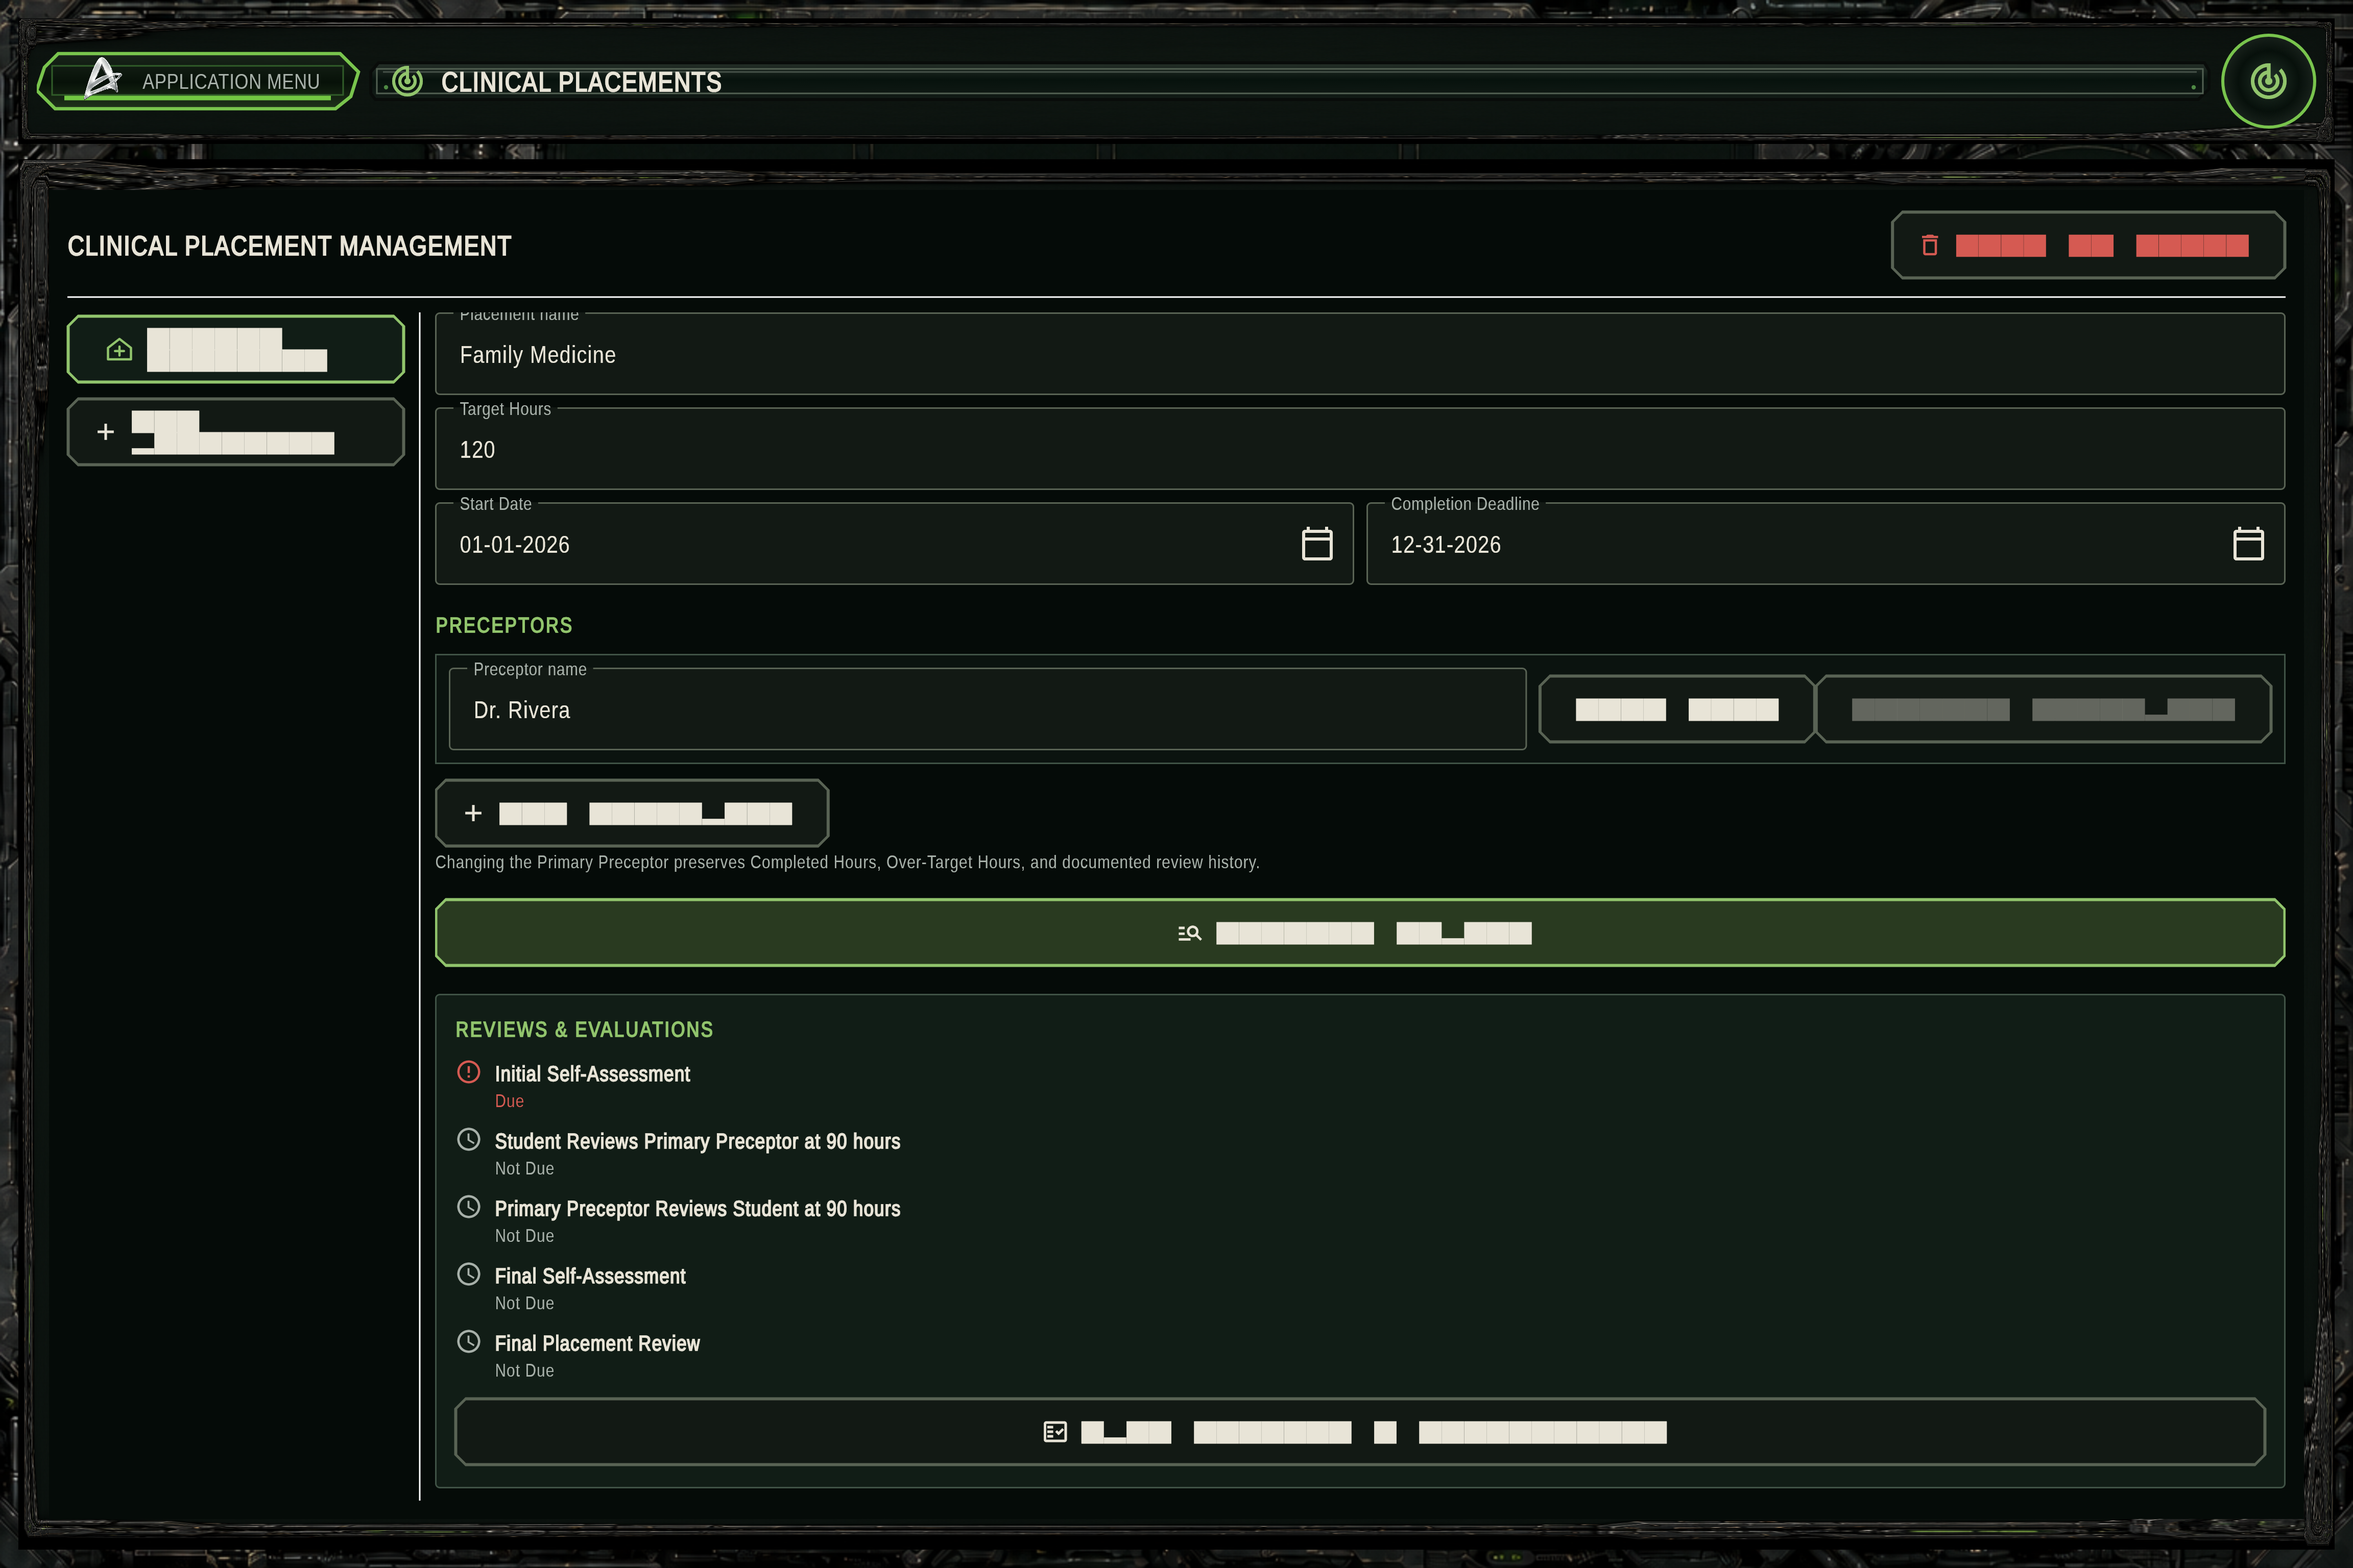
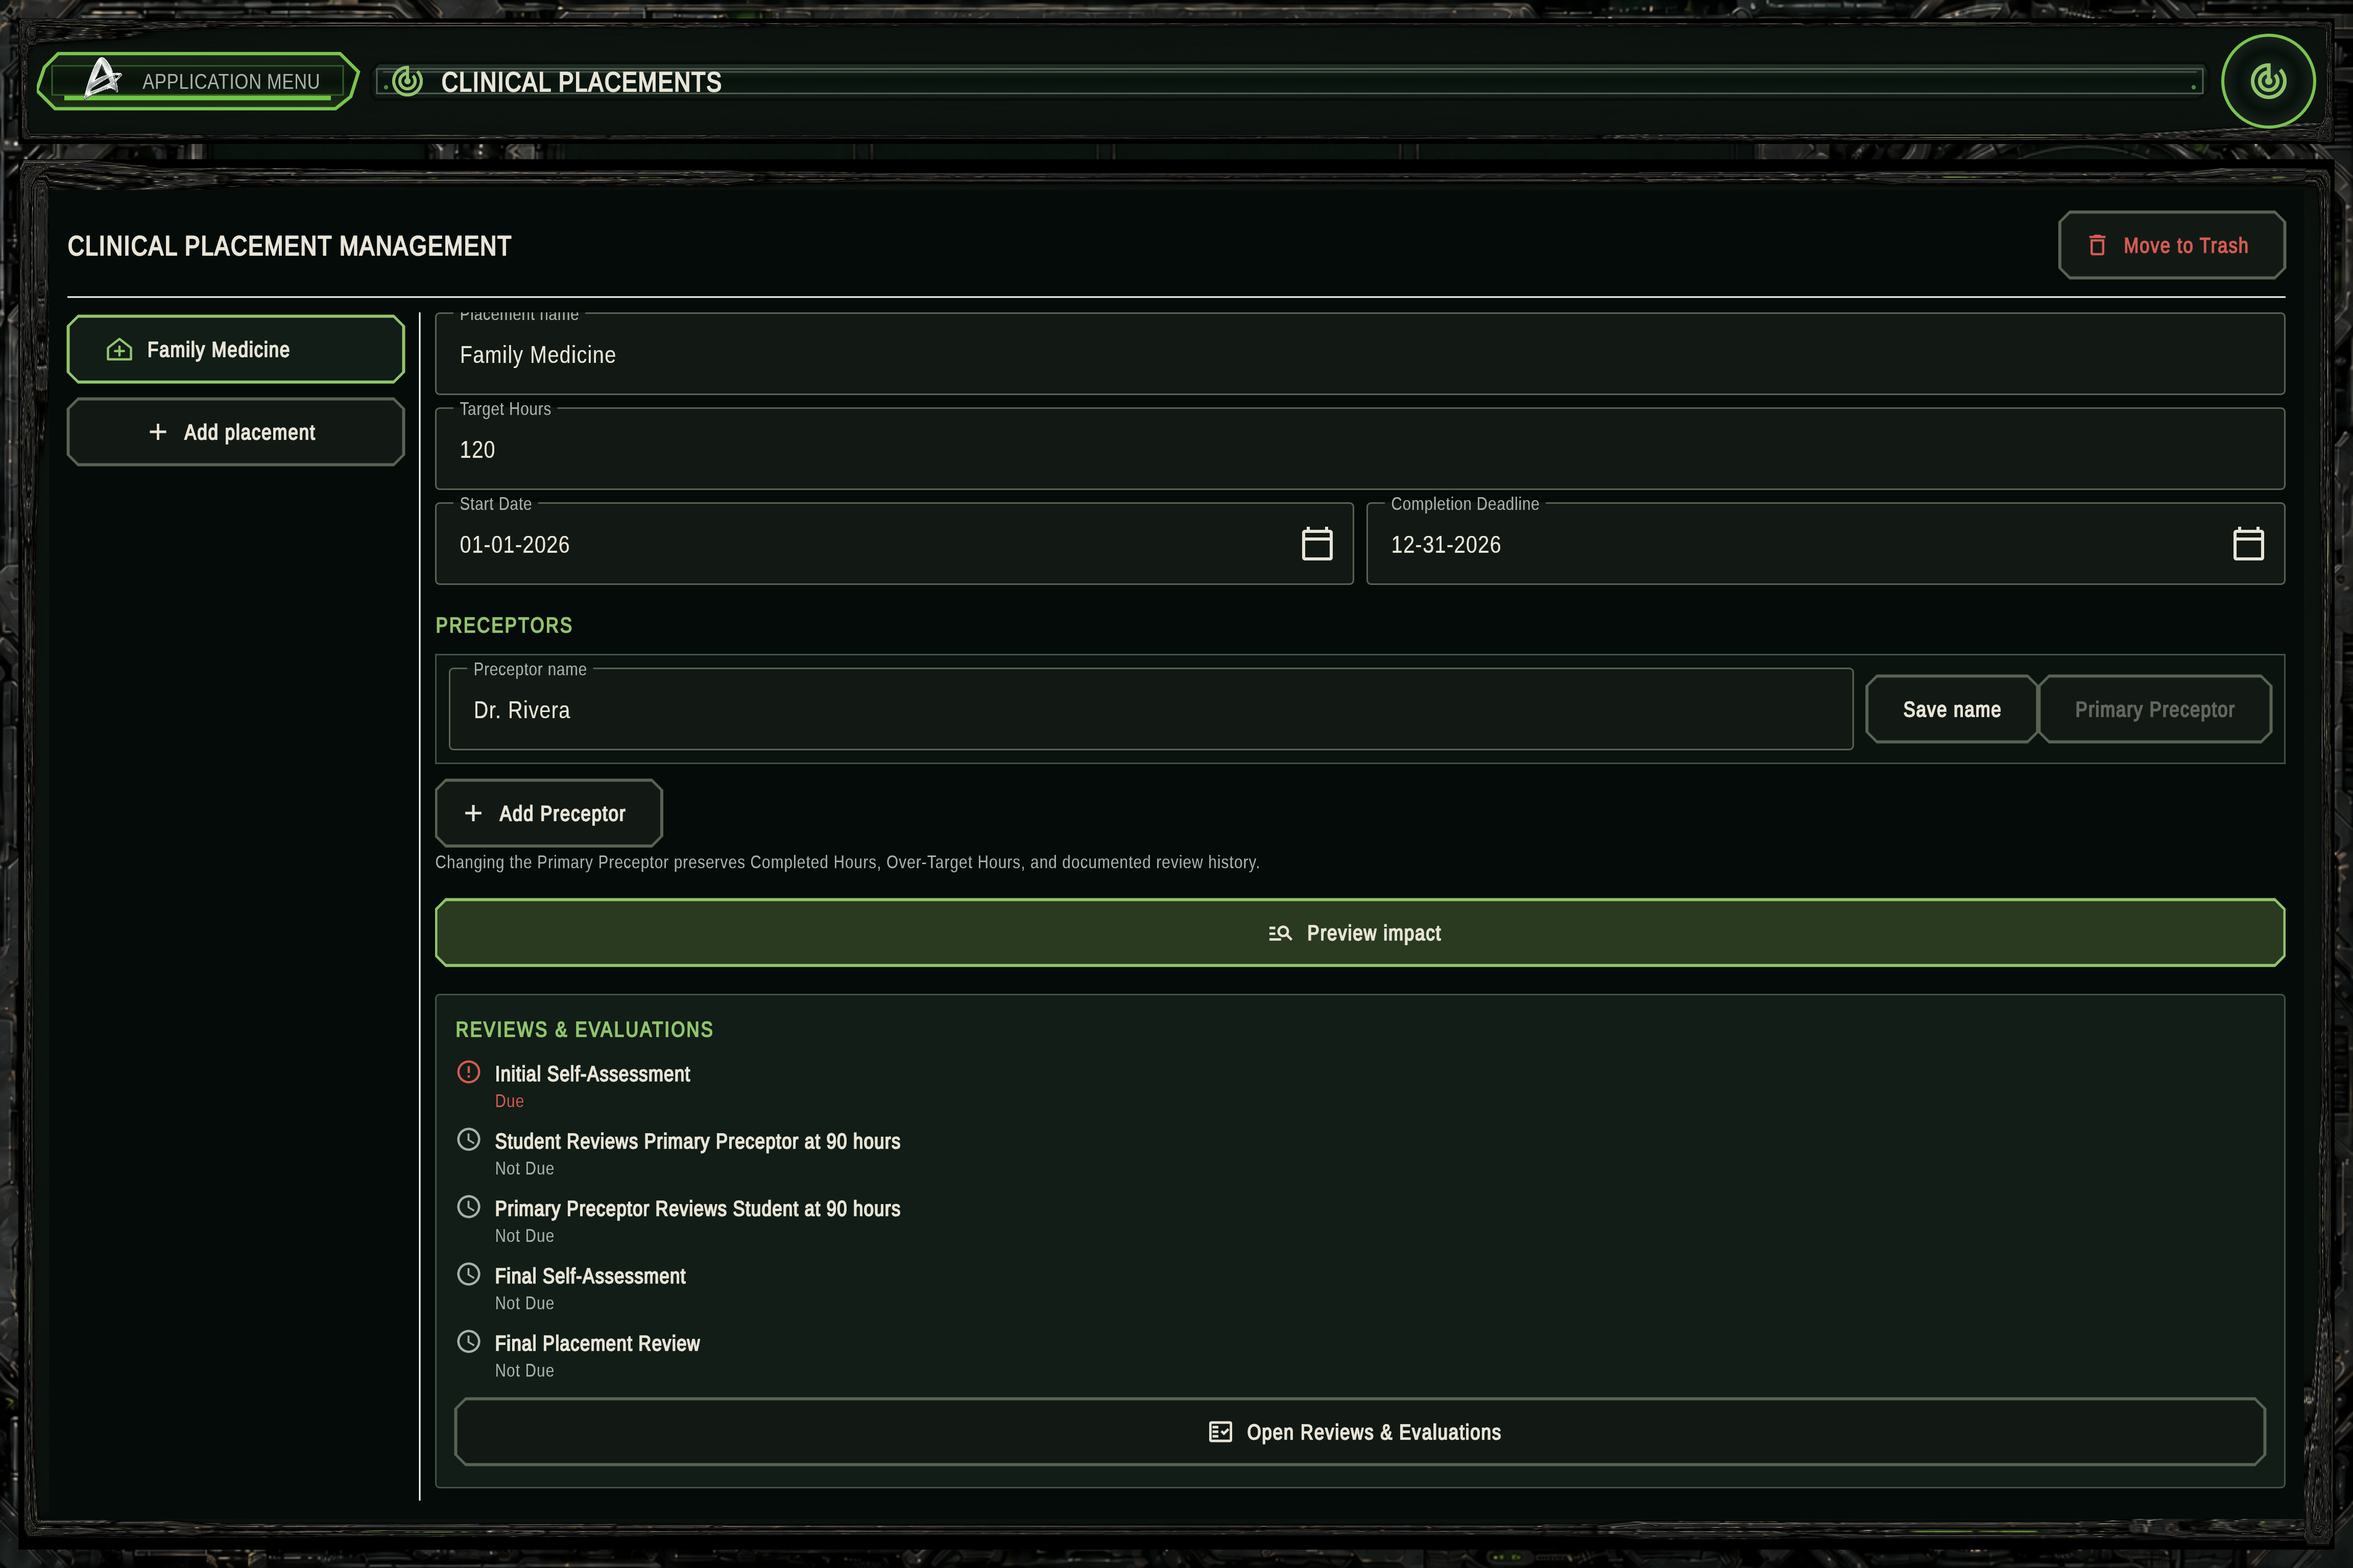
fix(theme): render readable Containment proof labels (#146)

diff --git a/packages/clinical_calendar_presentation/lib/src/variant_f_theme.dart b/packages/clinical_calendar_presentation/lib/src/variant_f_theme.dart
@@ -352,6 +352,7 @@ ThemeData buildVariantFTheme({bool enhancedAccessibility = false}) {
         side: const BorderSide(color: VariantFColors.primary),
         elevation: 0,
         textStyle: const TextStyle(
+          fontFamily: 'Roboto',
           fontWeight: FontWeight.w700,
           letterSpacing: .7,
         ),
@@ -365,6 +366,7 @@ ThemeData buildVariantFTheme({bool enhancedAccessibility = false}) {
         minimumSize: const Size(44, 44),
         side: const BorderSide(color: VariantFColors.controlBorder),
         textStyle: const TextStyle(
+          fontFamily: 'Roboto',
           fontWeight: FontWeight.w700,
           letterSpacing: .7,
         ),
@@ -375,6 +377,7 @@ ThemeData buildVariantFTheme({bool enhancedAccessibility = false}) {
       style: TextButton.styleFrom(
         foregroundColor: VariantFColors.primary,
         textStyle: const TextStyle(
+          fontFamily: 'Roboto',
           fontWeight: FontWeight.w700,
           letterSpacing: .7,
         ),
@@ -400,7 +403,11 @@ ThemeData buildVariantFTheme({bool enhancedAccessibility = false}) {
           BeveledRectangleBorder(borderRadius: BorderRadius.circular(6)),
         ),
         textStyle: const WidgetStatePropertyAll(
-          TextStyle(fontWeight: FontWeight.w700, letterSpacing: .6),
+          TextStyle(
+            fontFamily: 'Roboto',
+            fontWeight: FontWeight.w700,
+            letterSpacing: .6,
+          ),
         ),
       ),
     ),

diff --git a/packages/clinical_calendar_presentation/lib/src/assignments/academic_assignment_surface.dart b/packages/clinical_calendar_presentation/lib/src/assignments/academic_assignment_surface.dart
@@ -115,7 +115,7 @@ final class _ContainmentDroneAssignmentControlHousing extends StatelessWidget {
   @override
   Widget build(BuildContext context) => Container(
     key: const Key('containment-drone-assignment-control-housing'),
-    width: 58,
+    width: 212,
     height: 54,
     padding: const EdgeInsets.all(4),
     decoration: BoxDecoration(
@@ -130,12 +130,19 @@ final class _ContainmentDroneAssignmentControlHousing extends StatelessWidget {
         color: VariantFColors.background,
         border: Border.all(color: VariantFColors.primary.withValues(alpha: .7)),
       ),
-      child: IconButton(
-        key: const Key('add-academic-assignment'),
-        tooltip: 'Add Academic Assignment',
-        padding: EdgeInsets.zero,
-        onPressed: onPressed,
-        icon: const Icon(Icons.assignment_add),
+      child: Tooltip(
+        message: 'Add Academic Assignment',
+        child: TextButton.icon(
+          key: const Key('add-academic-assignment'),
+          onPressed: onPressed,
+          icon: const Icon(Icons.assignment_add, size: 19),
+          label: const Text(
+            'ADD ACADEMIC ASSIGNMENT',
+            maxLines: 1,
+            overflow: TextOverflow.clip,
+            style: TextStyle(fontSize: 11, letterSpacing: .45),
+          ),
+        ),
       ),
     ),
   );

diff --git a/packages/clinical_calendar_presentation/test/clinical_calendar_app_test.dart b/packages/clinical_calendar_presentation/test/clinical_calendar_app_test.dart
@@ -627,6 +627,7 @@ void main() {
       expect(snapshot.entries.single.title, 'Evidence review');
       expect(snapshot.entries.single.course, 'NURS 702');
       expect(find.byKey(const Key('add-academic-assignment')), findsOneWidget);
+      expect(find.text('ADD ACADEMIC ASSIGNMENT'), findsOneWidget);
       expect(find.byKey(const Key('manage-class-catalog')), findsOneWidget);
       expect(tester.takeException(), isNull);
     },
